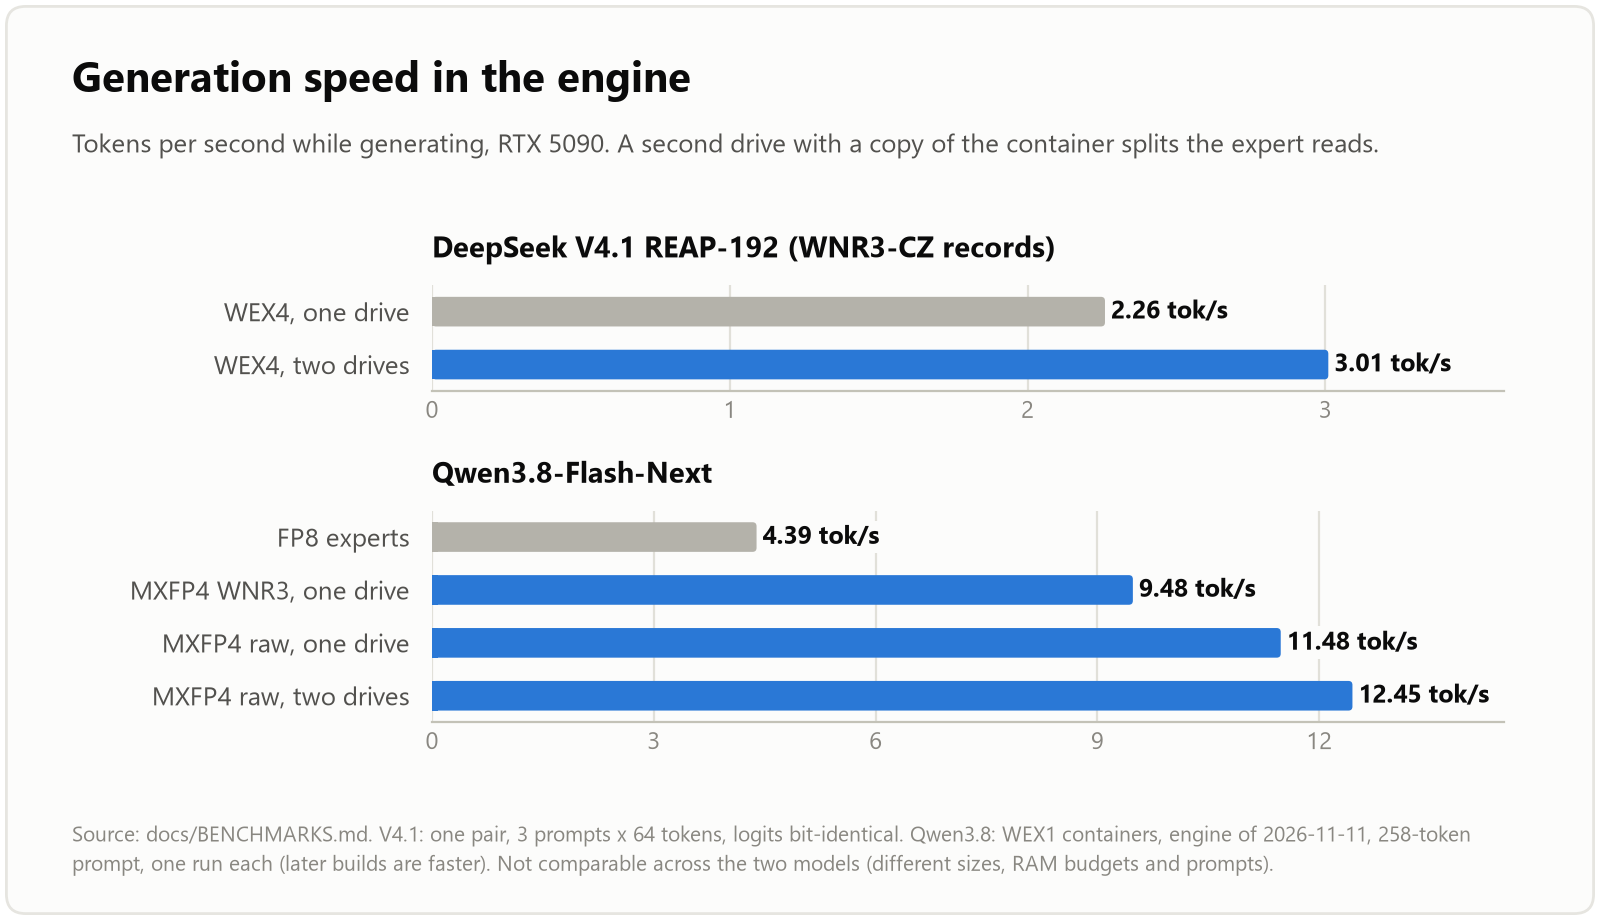
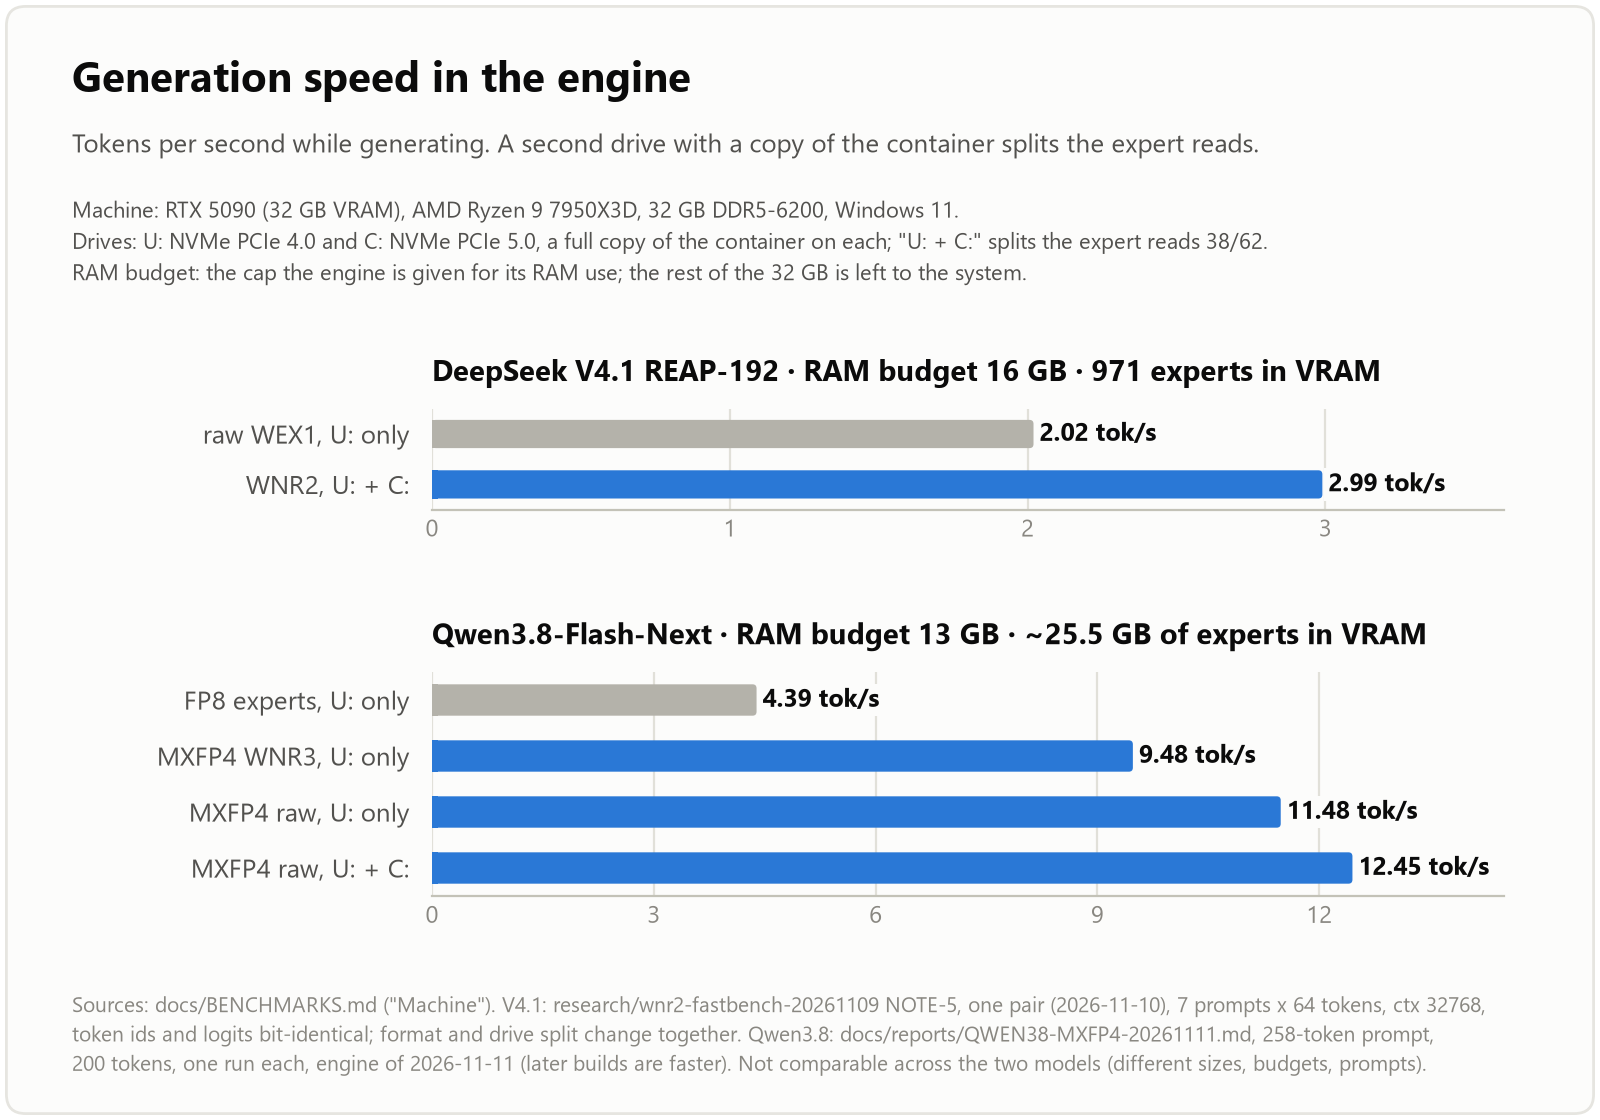
charts: machine, drives (PCIe 4/5), RAM budget and VRAM on the speed chart
The V4.1 panel now shows the NOTE-5 pair, whose RAM budget (16 GB) and VRAM expert tier (971) are recorded; Qwen3.8 runs at RAM 13 GB with about 25.5 GB of experts in VRAM. docs/BENCHMARKS.md 'Machine' names the CPU and the RAM with their sources.

diff --git a/scripts/make_charts.py b/scripts/make_charts.py
@@ -66,30 +66,44 @@ def chart_codecs(t):
             ax.set_yticklabels([])
     cs.footer(fig, t, 'Source: docs/BENCHMARKS.md, "WNR3 against general-purpose codecs on real expert records" '
               '(2026-11-15). WNR3 byte-exact, with a model\ntrained on the same 8 records; brotli at level 11 (9 on '
-              'MiniMax), the best general codec measured.\nOn the CPU zstd, zlib and lz4 decode faster than WNR3; lzma, and brotli 11 on one thread, decode slower.', h)
+              'MiniMax), the best general codec measured. The ratios do not depend on the machine.\nDecode speed, '
+              'measured on an Intel Core i7-7700K with 32 GB of RAM: zstd, zlib and lz4 decode faster than WNR3; lzma, '
+              'and brotli 11 on one thread, slower.', h)
     return fig
 
 
+MACHINE = ('Machine: RTX 5090 (32 GB VRAM), AMD Ryzen 9 7950X3D, 32 GB DDR5-6200, Windows 11.\n'
+           'Drives: U: NVMe PCIe 4.0 and C: NVMe PCIe 5.0, a full copy of the container on each; "U: + C:" splits the '
+           'expert reads 38/62.\nRAM budget: the cap the engine is given for its RAM use; the rest of the 32 GB is '
+           'left to the system.')
+
+
 def chart_speed(t):
-    # docs/BENCHMARKS.md: V4.1 "containers, drives and decode speed" (WEX4 installed engine, one pair, 3 prompts x 64
-    # tokens, logits bit-identical); Qwen3.8 "Qwen3.8-Flash-Next MXFP4" (decode tok/s, 258-token prompt, one run each).
-    v41 = [('WEX4, one drive', 2.26, 'gray'), ('WEX4, two drives', 3.01, 'blue')]
-    q38 = [('FP8 experts', 4.39, 'gray'), ('MXFP4 WNR3, one drive', 9.48, 'blue'),
-           ('MXFP4 raw, one drive', 11.48, 'blue'), ('MXFP4 raw, two drives', 12.45, 'blue')]
-    h = 4.6
+    # V4.1: research/wnr2-fastbench-20261109/NOTE-5-mirror-ab-20261110.md (docs/BENCHMARKS.md "containers, drives
+    # and decode speed", first row): RAM_GB 16, ctx 32768, 7 prompts x 64 tokens, one pair, 971 experts in VRAM.
+    # Qwen3.8: docs/reports/QWEN38-MXFP4-20261111.md "Speed": RAM 13 GB, 258-token prompt, 200 tokens, one run each.
+    v41 = [('raw WEX1, U: only', 2.02, 'gray'), ('WNR2, U: + C:', 2.99, 'blue')]
+    q38 = [('FP8 experts, U: only', 4.39, 'gray'), ('MXFP4 WNR3, U: only', 9.48, 'blue'),
+           ('MXFP4 raw, U: only', 11.48, 'blue'), ('MXFP4 raw, U: + C:', 12.45, 'blue')]
+    h = 5.6
     fig = cs.figure(t, h)
-    cs.header(fig, t, 'Generation speed in the engine', 'Tokens per second while generating, RTX 5090. '
-              'A second drive with a copy of the container splits the expert reads.', h)
-    ax1 = cs.axes(fig, t, [0.27, 0.575, 0.67, 0.115], 'DeepSeek V4.1 REAP-192 (WNR3-CZ records)')
-    ax2 = cs.axes(fig, t, [0.27, 0.215, 0.67, 0.23], 'Qwen3.8-Flash-Next')
+    cs.header(fig, t, 'Generation speed in the engine', 'Tokens per second while generating. A second drive '
+              'with a copy of the container splits the expert reads.', h)
+    fig.text(0.045, 1 - 0.98 / h, MACHINE, fontsize=8, color=t['ink2'], va='top', linespacing=1.5)
+    ax1 = cs.axes(fig, t, [0.27, 0.545, 0.67, 0.09],
+                  'DeepSeek V4.1 REAP-192 · RAM budget 16 GB · 971 experts in VRAM')
+    ax2 = cs.axes(fig, t, [0.27, 0.2, 0.67, 0.2],
+                  'Qwen3.8-Flash-Next · RAM budget 13 GB · ~25.5 GB of experts in VRAM')
     for ax, rows, xmax in ((ax1, v41, 3.6), (ax2, q38, 14.5)):
         cs.hbars(ax, [r[0] for r in rows], [r[1] for r in rows], [t[r[2]] for r in rows], t, xmax,
                  lambda v: f'{v:.2f} tok/s')
     ax1.set_xticks([0, 1, 2, 3])
     ax2.set_xticks([0, 3, 6, 9, 12])
-    cs.footer(fig, t, 'Source: docs/BENCHMARKS.md. V4.1: one pair, 3 prompts x 64 tokens, logits bit-identical. '
-              'Qwen3.8: WEX1 containers, engine of 2026-11-11, 258-token\nprompt, one run each (later builds are faster). Not comparable across the two models (different sizes, '
-              'RAM budgets and prompts).', h)
+    cs.footer(fig, t, 'Sources: docs/BENCHMARKS.md ("Machine"). V4.1: research/wnr2-fastbench-20261109 NOTE-5, one '
+              'pair (2026-11-10), 7 prompts x 64 tokens, ctx 32768,\ntoken ids and logits bit-identical; format and '
+              'drive split change together. Qwen3.8: docs/reports/QWEN38-MXFP4-20261111.md, 258-token prompt,\n200 '
+              'tokens, one run each, engine of 2026-11-11 (later builds are faster). Not comparable across the two '
+              'models (different sizes, budgets, prompts).', h)
     return fig
 
 

diff --git a/docs/BENCHMARKS.md b/docs/BENCHMARKS.md
@@ -11,7 +11,7 @@ Every measurement behind the formats and the read path: container sizes, integri
 
 ## Machine
 
-One desktop: NVIDIA RTX 5090 (32 GB, sm_120), two NVMe drives, U: (PCIe 4) and C: (PCIe 5), each holding a full copy of the containers, Windows 11. Engines built with MSYS2 UCRT64 gcc 16.2 and the CUDA toolkit 13.4 (the maintainer's build notes); tools run with Python 3.14. The CPU-only baseline of 2026-11-07 ran on the same machine.
+One desktop: AMD Ryzen 9 7950X3D, 32 GB of DDR5-6200 RAM, NVIDIA RTX 5090 (32 GB, sm_120), two NVMe drives, U: (PCIe 4) and C: (PCIe 5), each holding a full copy of the containers, Windows 11. Engines built with MSYS2 UCRT64 gcc 16.2 and the CUDA toolkit 13.4 (the maintainer's build notes); tools run with Python 3.14. The CPU-only baseline of 2026-11-07 ran on the same machine. The RAM budget of a run (`--ram`, `RAM_GB`) is the cap the engine is given, not the RAM of the machine. Sources for the CPU and the RAM: [wex-architecture-20261018.it.md](reports/wex-architecture-20261018.it.md) and [wnr4-entropy-engine-evaluation-20261108.it.md](reports/wnr4-entropy-engine-evaluation-20261108.it.md).
 
 ## Reproduce
 

diff --git a/README.md b/README.md
@@ -163,7 +163,7 @@ The V4.1 switch report's own reading of its numbers: on this machine the second 
 
 <picture>
   <source media="(prefers-color-scheme: dark)" srcset="assets/charts/speed-dark.png">
-  <img alt="Bar chart: tokens per second on an RTX 5090. DeepSeek V4.1: one drive 2.26, two drives 3.01. Qwen3.8-Flash-Next: FP8 experts 4.39, MXFP4 WNR3 one drive 9.48, MXFP4 raw one drive 11.48, MXFP4 raw two drives 12.45." src="assets/charts/speed-light.png" width="800">
+  <img alt="Bar chart: tokens per second on an RTX 5090 (32 GB VRAM) with a Ryzen 9 7950X3D and 32 GB of RAM; drive U: is NVMe PCIe 4.0, C: NVMe PCIe 5.0. DeepSeek V4.1, RAM budget 16 GB: raw WEX1 on U: 2.02, WNR2 on U: + C: 2.99. Qwen3.8-Flash-Next, RAM budget 13 GB: FP8 experts 4.39, MXFP4 WNR3 on U: 9.48, MXFP4 raw on U: 11.48, MXFP4 raw on U: + C: 12.45." src="assets/charts/speed-light.png" width="800">
 </picture>
 
 <picture>
